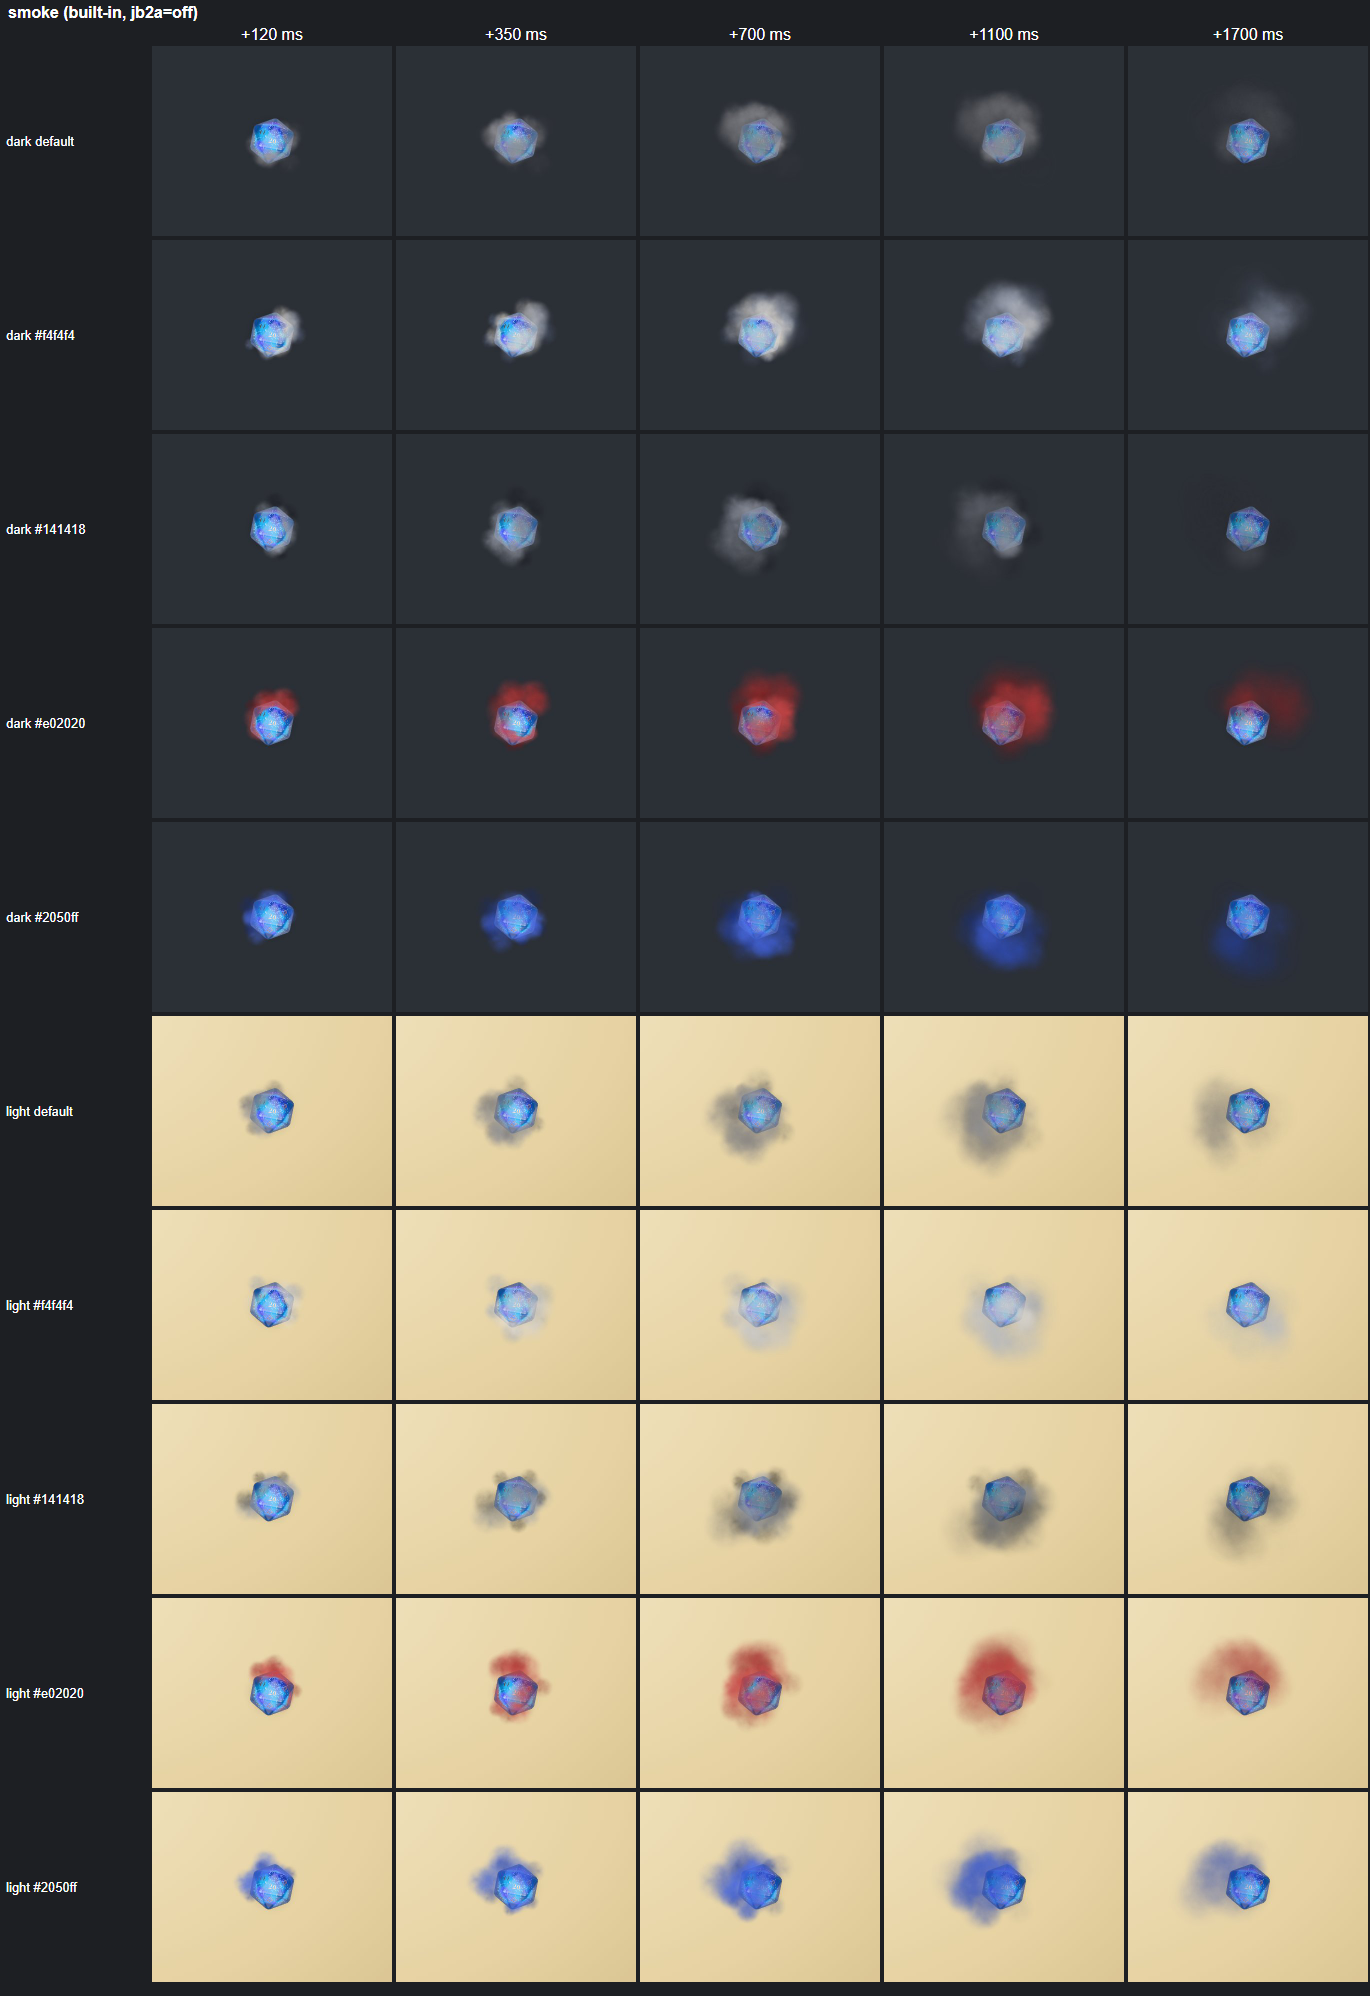
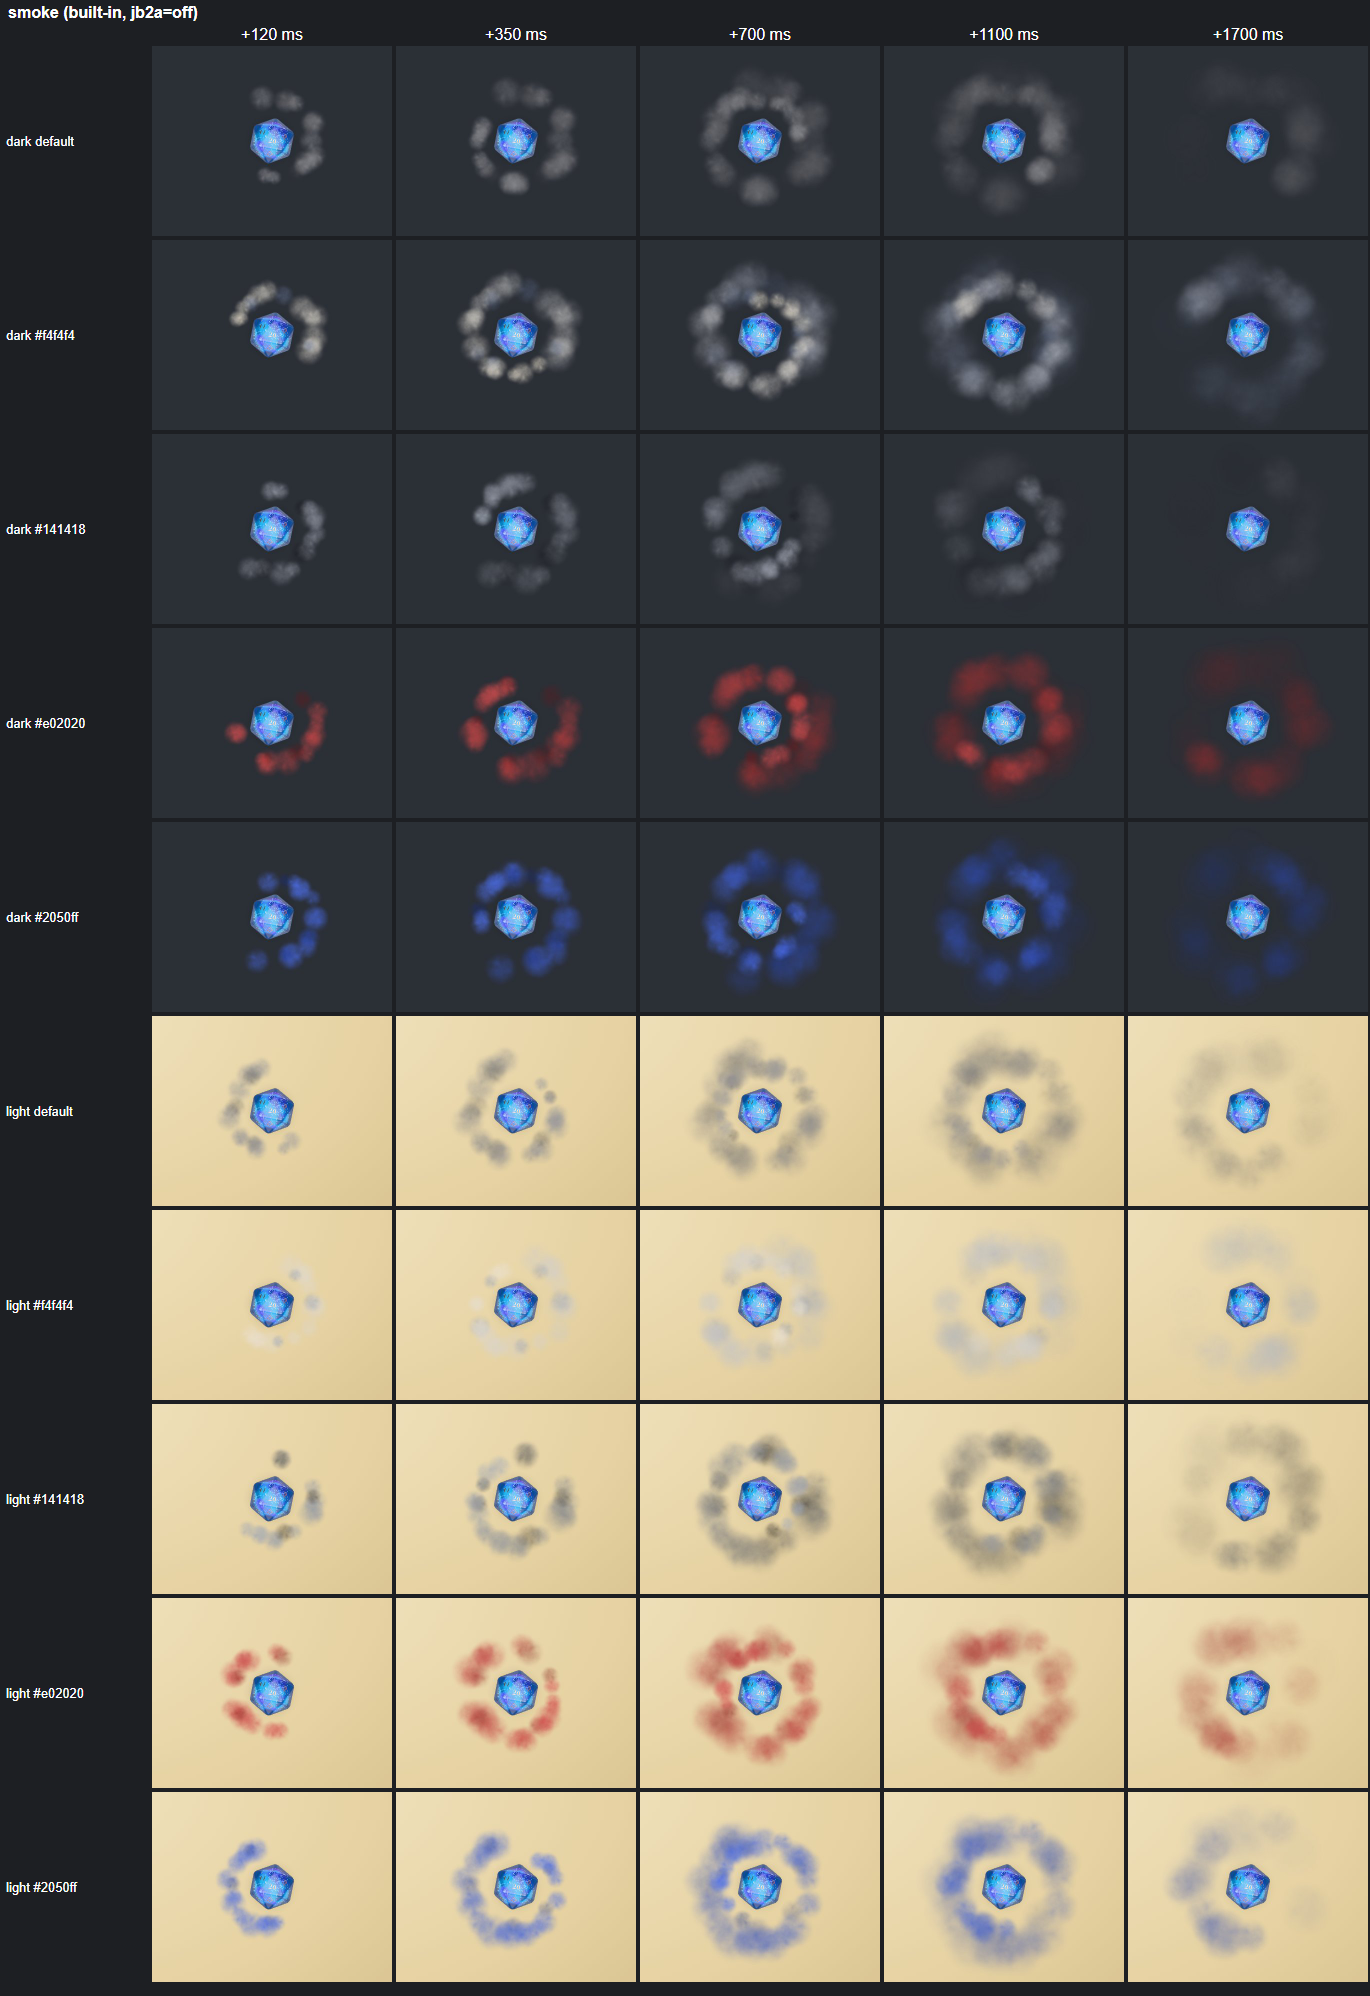
fix(fx): keep smoke clear of the die face
Puffs are born just outside the die footprint (one die radius plus half
the puff) and push outward faster than they swell, with a weaker
draught and narrower spread, so only a faded puff ever reaches back over
the top face and the number stays readable. A worst-case trajectory
test pins it. Labels the particles floor-bounce mirror test as a spec.

diff --git a/src/effects/library/catalogue.js b/src/effects/library/catalogue.js
@@ -778,14 +778,18 @@ const shown = (c) => c.clone().convertLinearToSRGB();
 const SMOKE_LIGHT = new THREE.Color().setRGB(0.74, 0.74, 0.75);
 
 /**
- * A dense, billowing column of PUFF smoke rising off the die: puffs are born on a ring around it
- * (0.5..0.85 die radii, dieRadius), each heading up and out on a bearing that winds round the die
- * over the emission (the column curls), all leaning with one draught per play (it drifts). Each puff
- * spins, grows about 3x as it slows (the smoke kind's drag) and darkens from the body, the die colour
- * as displayed leaning 30% to a light smoke grey (a near-black die's rim), to the edge colour
- * (palette().edge as displayed, x 0.75), so the old, wide puffs at its rim are darker than its fresh
- * core; a few low soot puffs of the edge colour roll out around its foot. Buoyant (gravity > 0):
- * unlike fumble's darker plume, which sags. `endColor` overrides the edge colour.
+ * A dense, billowing column of PUFF smoke rising round the die: puffs are born on a ring just clear of
+ * its footprint (from one die radius, dieRadius, plus half the puff, so even the puff's soft rim
+ * starts outside), each heading out and up on a bearing that winds round the die over the emission
+ * (the column curls), all leaning a little with one draught per play (it drifts). Each one spins,
+ * grows 3x as it slows (the smoke kind's drag) and darkens from the body, the die colour as displayed
+ * leaning 30% to a light smoke grey (a near-black die's rim), to the edge colour (palette().edge as
+ * displayed, x 0.75), so the old, wide puffs at its rim are darker than its fresh core; a few low soot
+ * puffs of the edge colour roll out around its foot. The camera looks straight down and the puffs are
+ * opaque (normal blend), so the outward speed grows with the puff size: a puff always moves out
+ * faster than it swells inward, and only a faded one (its last third) reaches back over the die face,
+ * whose number stays readable. Buoyant (gravity > 0): unlike fumble's darker plume, which sags.
+ * `endColor` overrides the edge colour.
  */
 const smokeStart = (endColor) => (ctx) => {
   if (!ctx.particles) return NOOP;
@@ -795,15 +799,18 @@ const smokeStart = (endColor) => (ctx) => {
   const body = shown(pal.rim ?? pal.mid).lerp(SMOKE_LIGHT, 0.3);
   const edge = endColor ? new THREE.Color(endColor) : shown(pal.edge).multiplyScalar(0.75);
   const calm = ctx.reducedMotion;
+  const slow = calm ? 0.85 : 1;
   const { x: cx, z: cz } = ctx.position;
   const y0 = (ctx.position.y || DIE_Y) + 0.35 * R; // round the die's upper half
   const draught = Math.random() * Math.PI * 2; // the way the column drifts
   const turn = Math.random() * Math.PI * 2;
   const curl = Math.random() < 0.5 ? -1 : 1;
-  const dx = Math.cos(draught) * 0.9;
-  const dz = Math.sin(draught) * 0.9;
-  const column = (total, window, lead, { rMin, rMax, up, out, y, ...spec }) => {
+  // Weaker than every puff's outward push: even a puff born upwind never drifts back over the die.
+  const dx = Math.cos(draught) * 0.25;
+  const dz = Math.sin(draught) * 0.25;
+  const column = (total, window, lead, { rMin, rMax, up, y, ...spec }) => {
     let i = 0;
+    const clear = 0.5 * spec.size; // half the puff: its soft rim starts outside the footprint too
     return oneByOne(
       ctx,
       total,
@@ -813,12 +820,12 @@ const smokeStart = (endColor) => (ctx) => {
         const a = turn + curl * ((i++ / Math.max(1, total)) * Math.PI * 3 + (Math.random() - 0.5) * 0.9);
         const ux = Math.cos(a);
         const uz = Math.sin(a);
-        const r = rMin + (rMax - rMin) * Math.random();
+        const r = (rMin + (rMax - rMin) * Math.random()) * R + clear;
         ctx.particles.emit({
           count: 1,
-          origin: { x: cx + ux * r * R, y, z: cz + uz * r * R },
-          dir: { x: ux * out + dx, y: up, z: uz * out + dz },
-          spread: 0.3,
+          origin: { x: cx + ux * r, y, z: cz + uz * r },
+          dir: { x: ux + dx, y: up, z: uz + dz },
+          spread: 0.15,
           kind: KIND.SMOKE,
           shape: SHAPE.SMOKE,
           blend: 'normal',
@@ -830,32 +837,32 @@ const smokeStart = (endColor) => (ctx) => {
       lead,
     );
   };
-  const puffs = column(countFor(28, ctx), 0.6, 0.2, {
-    rMin: 0.5,
-    rMax: 0.85,
+  const puffSize = 1.0 * R * k;
+  const puffs = column(countFor(34, ctx), 0.6, 0.2, {
+    rMin: 0.95,
+    rMax: 1.15,
     y: y0,
-    up: 1,
-    out: 0.35,
-    speed: (calm ? 0.9 : 2.6) * R,
-    gravity: 0.45, // buoyant: it keeps rising as it slows
+    up: 0.5,
+    speed: slow * (1.0 * R + 1.0 * puffSize), // out faster than the puff swells
+    gravity: 0.3, // buoyant: it keeps rising as it slows
     life: 1.55,
     color: body,
     colorEnd: edge,
-    size: 1.0 * R * k,
+    size: puffSize,
     sizeEnd: 3,
   });
+  const sootSize = 0.8 * R * k;
   const soot = column(countFor(8, ctx), 0.5, 0.25, {
-    rMin: 0.8,
-    rMax: 1.05,
+    rMin: 1,
+    rMax: 1.2,
     y: 0.25 * R,
     up: 0.35,
-    out: 1,
-    speed: (calm ? 0.5 : 1.3) * R,
+    speed: slow * (0.8 * R + 0.8 * sootSize),
     gravity: 0.2,
     life: 1.3,
     color: edge,
     colorEnd: edge.clone().multiplyScalar(0.8),
-    size: 0.8 * R * k,
+    size: sootSize,
     sizeEnd: 2.9,
     alpha: 0.7,
   });

diff --git a/tests/unit/catalogue.test.js b/tests/unit/catalogue.test.js
@@ -573,6 +573,40 @@ describe('rebuilt looks', () => {
     h.stop();
   });
 
+  test('smoke keeps the die face readable: no fairly opaque puff over the footprint', () => {
+    // The camera looks straight down, so a normal-blend puff whose body reaches inside the die's
+    // radius veils the number. Worst case per puff (the pool's per-particle randomness): size x 1.2,
+    // speed x 0.7, the spread cone tilting it back toward the die, the draught against it. A PUFF's
+    // body is about 0.7 of its quad half-size (the rest is a soft falloff); KIND.SMOKE's opacity is
+    // 0.55 x (1 - age) x alpha. Allowed: the body inside 0.8 R only once the opacity is <= 0.2.
+    const R = (Math.sqrt(3) / 2); // makeDie's unit box
+    for (const reducedMotion of [false, true]) {
+      for (const intensity of [1, 2]) {
+        const { ctx, specs, h } = run('smoke', { reducedMotion, intensity }, 1500);
+        h.stop();
+        expect(specs.length).toBeGreaterThan(0);
+        for (const s of specs) {
+          const ox = s.origin.x - ctx.position.x;
+          const oz = s.origin.z - ctx.position.z;
+          const r0 = Math.hypot(ox, oz);
+          const dl = Math.hypot(s.dir.x, s.dir.y, s.dir.z);
+          const radial = (s.dir.x * ox + s.dir.z * oz) / (r0 * dl) - Math.sin(s.spread);
+          const vr = 0.7 * s.speed * radial; // may be < 0: drifting back over the die
+          const d = 1.6; // KIND.SMOKE drag
+          for (let k = 0; k <= 1; k += 0.02) {
+            const t = k * s.life;
+            const r = r0 + (vr * (1 - Math.exp(-d * t))) / d;
+            const body = 0.7 * 0.5 * s.size * 1.2 * (1 + (s.sizeEnd - 1) * k);
+            const opacity = 0.55 * (1 - k) * (s.alpha ?? 1);
+            if (r - body < 0.8 * R) {
+              expect(opacity, `rm ${reducedMotion} i ${intensity} age ${k.toFixed(2)} r0 ${r0.toFixed(2)}`).toBeLessThanOrEqual(0.2);
+            }
+          }
+        }
+      }
+    }
+  });
+
   test('shatter shards use SHARD with spin and gravity, cost 3', () => {
     expect(EFFECTS.shatter.cost).toBe(3);
     for (const color of LOOK_COLORS) {

diff --git a/tests/unit/particles.test.js b/tests/unit/particles.test.js
@@ -390,7 +390,8 @@ describe('textured soft sprites with halos', () => {
   });
 
   test('floor bounce (JS mirror of the shader): one damped bounce, then resting on the floor', () => {
-    // The shader's analytic path: find the touchdown by bisection, reflect vy x 0.35, clamp.
+    // A specification of the shader maths, not a check on the GLSL itself (the test above pins the
+    // shader text): find the touchdown by bisection, reflect vy x 0.35, clamp. Keep the two in step.
     const o = 0.5;
     const vy0 = 2.5;
     const d = 0.25;
